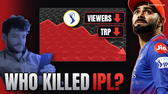
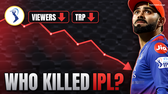
Thumbnail E v2: no fan, full-width translucent falling graph behind, dark text band
Claude-Session: https://claude.ai/code/session_01SQh72PYSr2UGL5osbLDTTd

diff --git a/ipl_killed/thumb/make_thumb_e.py b/ipl_killed/thumb/make_thumb_e.py
@@ -116,13 +116,45 @@ def gradient_text(base, xy, txt, font, top, bot, stroke=6):
     return m.getbbox()
 
 
+def graph_bg(base):
+    """Full-frame background: faint empty stands, a translucent red area chart crashing to the right, glowing line."""
+    st = cover(Image.open(os.path.join(HERE, "up", "empty_seats.png")).convert("L"), W, H, 0.5, 0.4)
+    st = np.asarray(st.filter(ImageFilter.GaussianBlur(3)), np.float32)[..., None] * np.array([0.20, 0.20, 0.24])
+    a = np.asarray(base, np.float32)[..., :3] * 0.6 + st
+    xs = np.linspace(-20, 1000, 11)
+    ys = np.array([0.24, 0.17, 0.28, 0.22, 0.36, 0.32, 0.47, 0.43, 0.58, 0.64, 0.74]) * H
+    curve = np.interp(np.arange(W), xs, ys)
+    yy = np.arange(H)[:, None]
+    fill = (yy > curve[None, :]).astype(np.float32)
+    fade = np.clip((yy - curve[None, :]) / 230, 0, 1)                # strongest just under the line, gone by the text
+    alpha = fill * 0.40 * (1 - fade) * (np.arange(W)[None, :] < 1000)
+    a = a * (1 - alpha[..., None]) + np.array(RED) * alpha[..., None]
+    a[::4] *= 0.86                                                     # faint scanlines
+    band = np.clip((yy - 470) / 140, 0, 1)[..., None] if False else np.clip((np.arange(H)[:, None] - 470) / 140, 0, 1)[..., None]
+    a *= 1 - 0.55 * band                                               # dark band under the headline
+    out = Image.fromarray(np.clip(a, 0, 255).astype(np.uint8)).convert("RGBA")
+    lay = Image.new("RGBA", (W, H), (0, 0, 0, 0))
+    d = ImageDraw.Draw(lay)
+    pts = list(zip(xs, ys))
+    d.line(pts, fill=(255, 70, 70, 255), width=11, joint="curve")
+    for p in pts[2:9:2]:
+        d.ellipse((p[0] - 10, p[1] - 10, p[0] + 10, p[1] + 10), fill=(255, 230, 230, 255), outline=(255, 70, 70, 255), width=5)
+    (ax, ay), (bx, by) = pts[-2], pts[-1]
+    v = np.array([bx - ax, by - ay]); v /= np.linalg.norm(v)
+    nrm = np.array([-v[1], v[0]]); tip = np.array([bx, by])
+    d.polygon([tuple(tip + v * 10), tuple(tip - v * 54 + nrm * 36), tuple(tip - v * 54 - nrm * 36)], fill=(255, 70, 70, 255))
+    halo = lay.filter(ImageFilter.GaussianBlur(20))
+    out.alpha_composite(halo)
+    out.alpha_composite(halo)
+    out.alpha_composite(lay)
+    return out
+
+
 def main():
-    base = room()
-    screen(base, (300, 60, 960, 470))
-    ipl_badge(base, cx=545, cy=140, d=124)
-    w1 = down_tag(base, 640, 92, "VIEWERS")
-    down_tag(base, 640 + w1 - 210, 196, "TRP")
-    fan(base)
+    base = graph_bg(room())
+    ipl_badge(base, cx=110, cy=120, d=150)
+    w1 = down_tag(base, 216, 84, "VIEWERS")
+    down_tag(base, 216 + w1 + 20, 84, "TRP")
     kohli(base)
     f = ImageFont.truetype(ANTON, 150)
     l, t, r, b = gradient_text(base, (34, 690), "WHO KILLED", f, (255, 255, 255), (150, 150, 158))
